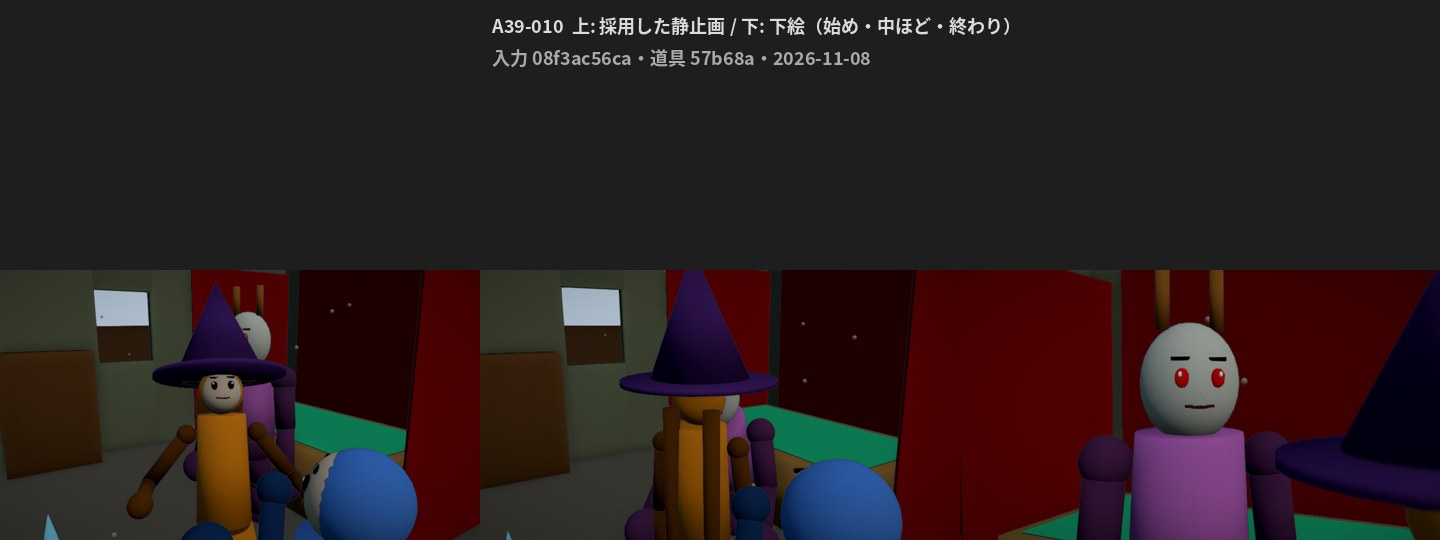
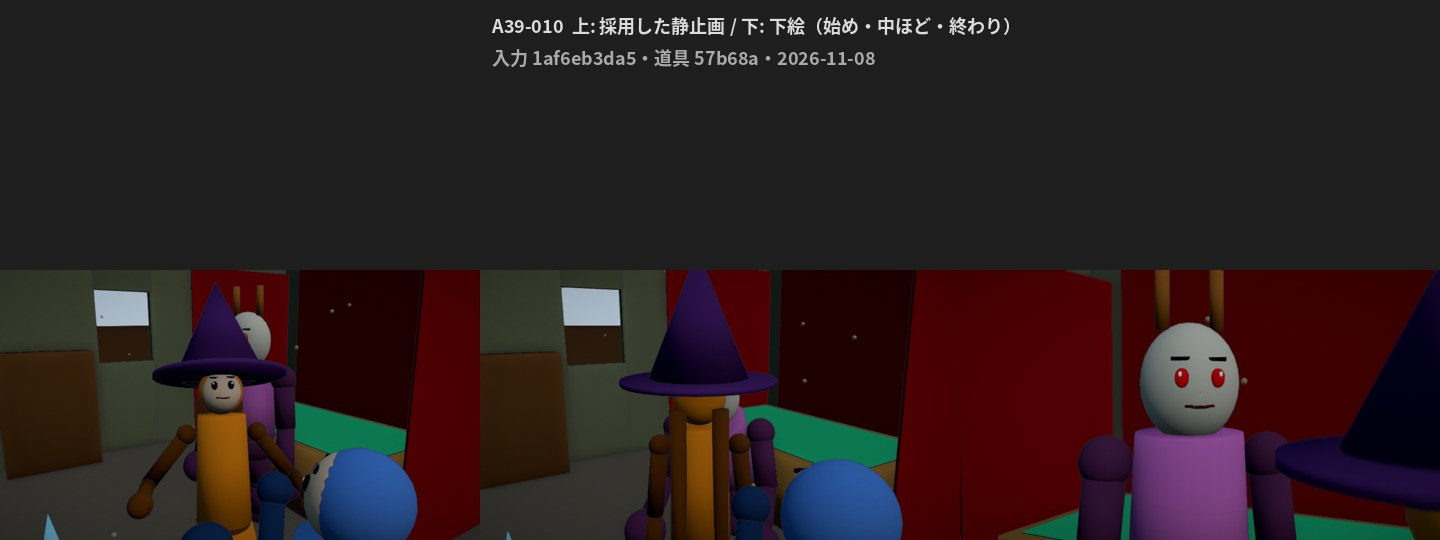
描き直し: A39-010（言い終えてから向き直る。mp4 は Git の外）
Claude-Session: https://claude.ai/code/session_01FyK1WbEMSdMk5LYam4hDor

Changed region(s): [[0.4375, 0.7407, 0.5312, 1.0], [0.3438, 0.0889, 0.625, 0.1185], [0.4688, 0.5037, 0.5, 0.563]]

diff --git a/episodes/A/scenes/A39/gen/framing_report.md b/episodes/A/scenes/A39/gen/framing_report.md
@@ -1,12 +1,11 @@
 # A39 構図の洗い出し（tools/framing.py）
 
-測ったカット 13、問題のあるカット 3。足が切れ 1、線を越える 1、顔が向こう向き 1
+測ったカット 13、問題のあるカット 2。足が切れ 1、線を越える 1
 
 測定の版（tools/manifest.py）: 最新 1、記録なし 12。最新でない測定の印は、今の設計と合っていないことがある（python tools/previs.py <場面> <カット>… --audit で測り直す）
 
 - **A39-004**（扉のビスコ・魔法でなんとかならないのか）: 足が切れ（bisco、9/13）
 - **A39-009**（胸上・ビスコ・覗き見とは）: 線を越える（bisco・metallica、A39-007 と反対の側から（間 1 カット））
-- **A39-010**（メタリカとアルレッキーノ・ルッキーニィは）: 顔が向こう向き（metallica、5/14、顔とカメラの角度 160 度）
 
 ## 線の側の並び（印のある区間。どちらの側にそろえるかは区間ごとに1つの判断）
 
